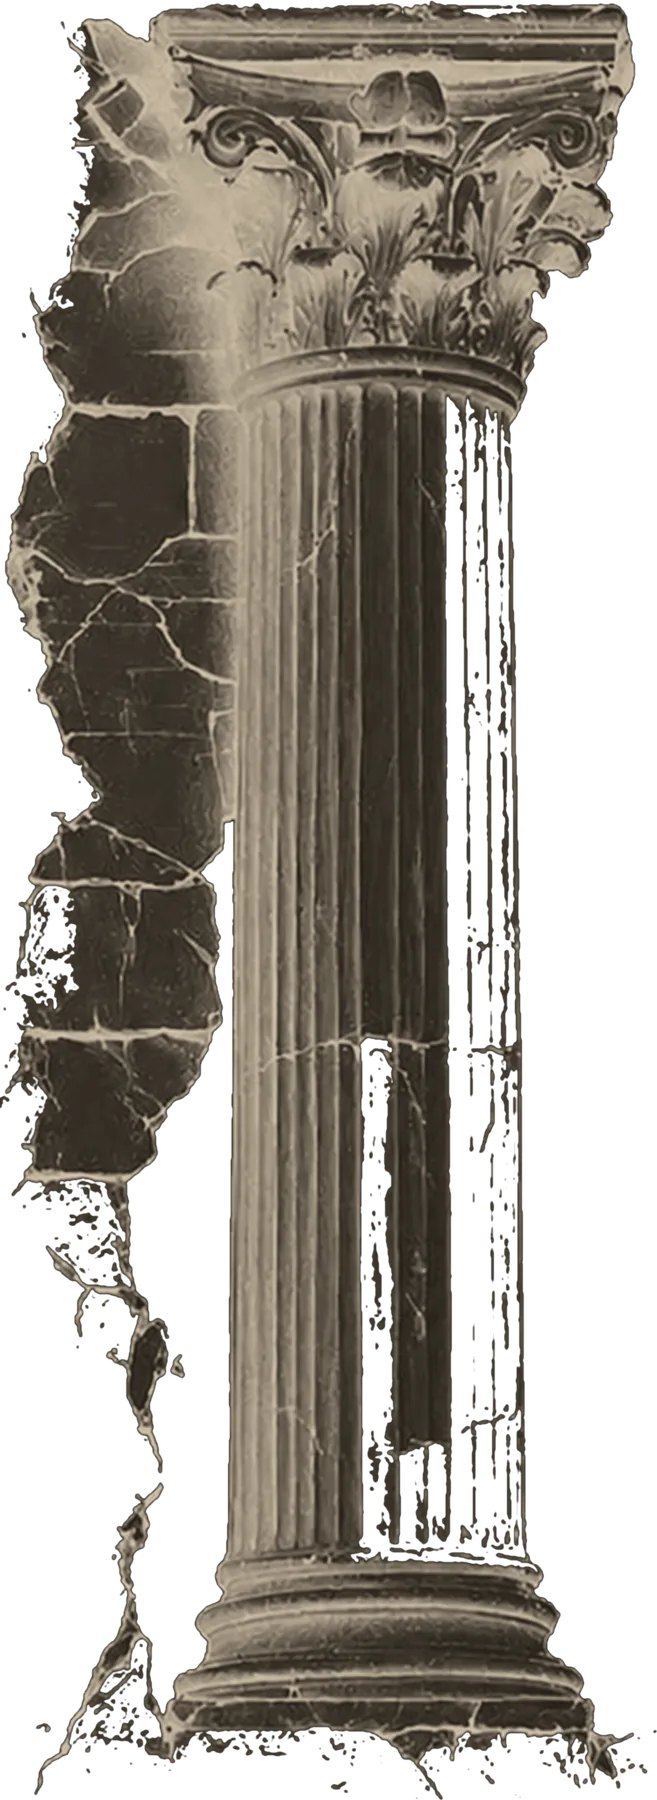
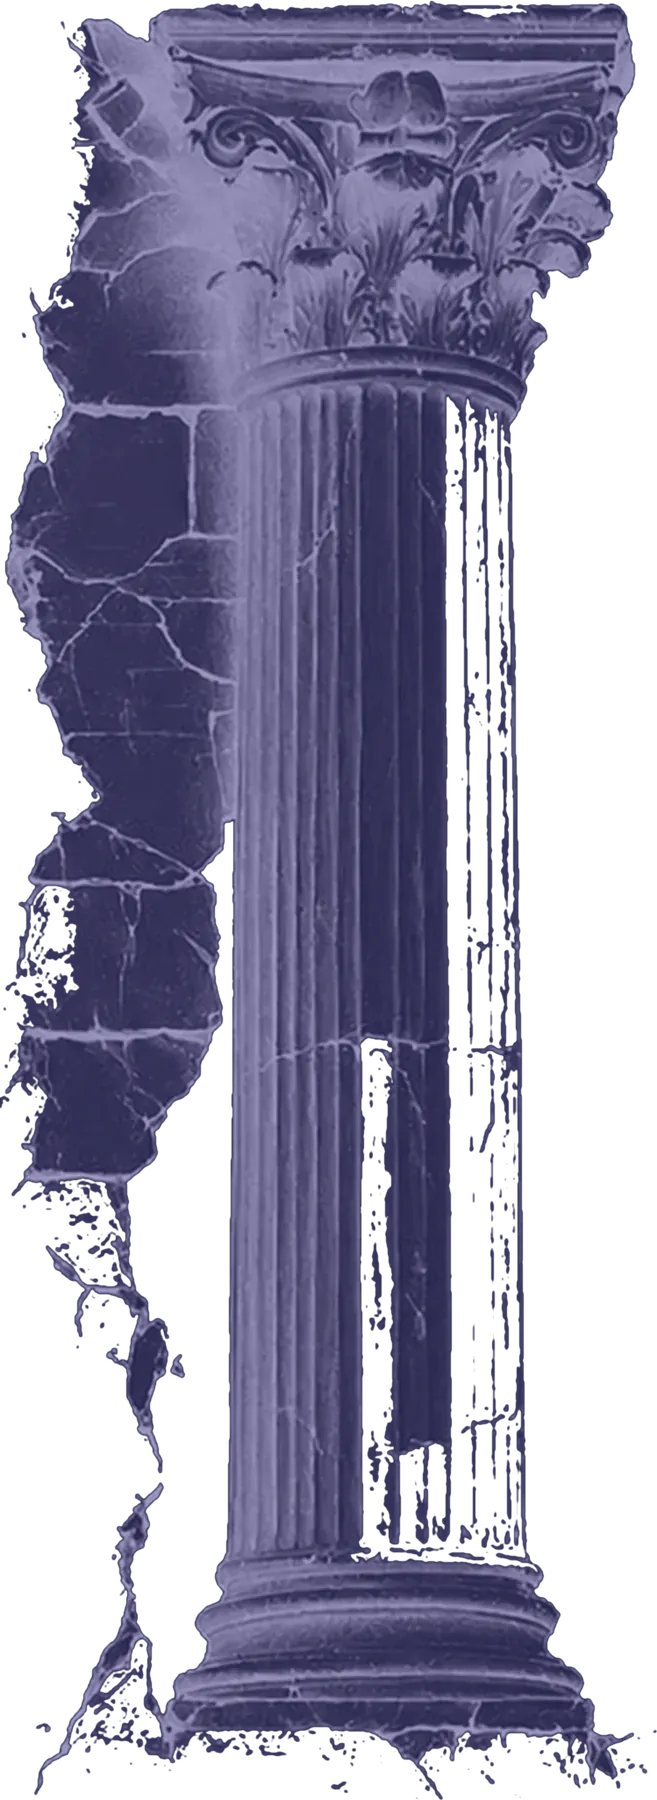
Retheme to cobalt engraving palette
Move the design system from pastel watercolor to a Toile de Jouy
engraving look: cobalt ink on warm cream paper in light mode, cream
linework on midnight indigo in dark mode. The multicolor washes become
a faint cobalt plate impression, radii tighten toward the flat printed
look, and the ruin pillars are re-rendered as cobalt duotones. Also
re-assert the --global-* token mappings inside the dark block, since
al-folio's own dark theme block hard-codes those values and was
overriding the palette for links and accents in dark mode.

Claude-Session: https://claude.ai/code/session_01HvBA374VCTFiBKqn1oUDUY

diff --git a/_sass/_watercolor.scss b/_sass/_watercolor.scss
@@ -67,25 +67,25 @@
 
 :root {
   /* surfaces */
-  --wc-bg: #f7f3ea;
-  --wc-surface: #fffdf8;
-  --wc-surface-2: #f4ecdf;
-  --wc-text: #2b2722;
-  --wc-heading: #221d18;
-  --wc-muted: #6b6055;
-  --wc-border: #ece2d2;
-  --wc-border-light: #ddd0bb;
+  --wc-bg: #f4eee1;
+  --wc-surface: #faf6eb;
+  --wc-surface-2: #ede5d2;
+  --wc-text: #2c2950;
+  --wc-heading: #232058;
+  --wc-muted: #6c6890;
+  --wc-border: #e0d7c2;
+  --wc-border-light: #d0c5ab;
 
   /* accents — ink tones tuned to WCAG AA on cream/ivory */
-  --wc-accent: #5b7fc0;
-  --wc-accent-ink: #3f5e96;
-  --wc-good: #466a40;
-  --wc-bad: #a94e44;
-  --wc-warn: #8c5f18;
+  --wc-accent: #4a44a8;
+  --wc-accent-ink: #322d8c;
+  --wc-good: #3f5e46;
+  --wc-bad: #9c4a4a;
+  --wc-warn: #85601f;
 
   /* tint recipe (badges, focus rings, block backgrounds) */
-  --wc-accent-bg: rgba(91, 127, 192, 0.1);
-  --wc-accent-bd: rgba(91, 127, 192, 0.28);
+  --wc-accent-bg: rgba(74, 68, 168, 0.08);
+  --wc-accent-bd: rgba(74, 68, 168, 0.26);
   --wc-good-bg: rgba(78, 122, 72, 0.1);
   --wc-good-bd: rgba(78, 122, 72, 0.28);
   --wc-bad-bg: rgba(184, 92, 82, 0.1);
@@ -93,23 +93,25 @@
   --wc-warn-bg: rgba(176, 125, 46, 0.12);
   --wc-warn-bd: rgba(176, 125, 46, 0.3);
 
-  --wc-radius-sm: 8px;
-  --wc-radius-btn: 999px;
-  --wc-radius-card: 20px;
+  --wc-radius-sm: 4px;
+  --wc-radius-btn: 6px;
+  --wc-radius-card: 10px;
 
-  --wc-shadow-soft: 0 1px 2px rgba(70, 50, 30, 0.04), 0 6px 20px rgba(70, 50, 30, 0.06);
-  --wc-shadow-float: 0 2px 6px rgba(70, 50, 30, 0.06), 0 16px 40px rgba(70, 50, 30, 0.08);
+  --wc-shadow-soft: 0 1px 2px rgba(35, 32, 88, 0.05), 0 6px 20px rgba(35, 32, 88, 0.07);
+  --wc-shadow-float: 0 2px 6px rgba(35, 32, 88, 0.07), 0 16px 40px rgba(35, 32, 88, 0.1);
 
   --wc-font-display: "Fraunces Variable", Georgia, "Times New Roman", serif;
   --wc-font-body: "Inter Variable", -apple-system, BlinkMacSystemFont, "Segoe UI", Roboto, sans-serif;
   --wc-font-mono: "IBM Plex Mono", "SF Mono", "Fira Code", ui-monospace, monospace;
 
-  /* the pastel wash, one blob per corner plus a soft center bloom */
-  --wc-wash-1: radial-gradient(42% 36% at 14% 10%, rgba(244, 180, 170, 0.55), transparent 70%);
-  --wc-wash-2: radial-gradient(34% 30% at 86% 6%, rgba(247, 214, 150, 0.5), transparent 70%);
-  --wc-wash-3: radial-gradient(46% 42% at 92% 78%, rgba(168, 196, 180, 0.5), transparent 70%);
-  --wc-wash-4: radial-gradient(42% 40% at 6% 90%, rgba(186, 170, 214, 0.52), transparent 70%);
-  --wc-wash-5: radial-gradient(30% 28% at 52% 48%, rgba(156, 193, 216, 0.32), transparent 70%);
+  /* the plate impression: a whisper of cobalt pooling at the corners of the
+     sheet, in place of the old multicolor watercolor blobs. The flat cream
+     stays dominant so the engraved linework carries the page. */
+  --wc-wash-1: radial-gradient(46% 40% at 8% 6%, rgba(47, 42, 140, 0.05), transparent 70%);
+  --wc-wash-2: radial-gradient(40% 34% at 94% 4%, rgba(47, 42, 140, 0.045), transparent 70%);
+  --wc-wash-3: radial-gradient(46% 42% at 94% 94%, rgba(47, 42, 140, 0.05), transparent 70%);
+  --wc-wash-4: radial-gradient(44% 40% at 4% 94%, rgba(47, 42, 140, 0.045), transparent 70%);
+  --wc-wash-5: radial-gradient(60% 50% at 50% 50%, rgba(250, 246, 235, 0.5), transparent 75%);
 
   /* feed the theme: al-folio components read these */
   --global-bg-color: var(--wc-bg);
@@ -126,7 +128,7 @@
   --global-divider-color: var(--wc-border);
   --global-card-bg-color: var(--wc-surface);
   --global-highlight-color: var(--wc-bad);
-  --global-back-to-top-bg-color: rgba(34, 29, 24, 0.55);
+  --global-back-to-top-bg-color: rgba(35, 32, 88, 0.6);
   --global-back-to-top-text-color: var(--wc-surface);
   --global-newsletter-bg-color: var(--wc-surface);
   --global-newsletter-text-color: var(--wc-text);
@@ -150,17 +152,17 @@
  * ------------------------------------------------------------------------ */
 
 html[data-theme="dark"] {
-  --wc-bg: #1c1813;
-  --wc-surface: #262019;
-  --wc-surface-2: #2f2820;
-  --wc-text: #ece4d6;
-  --wc-heading: #fbf5ea;
-  --wc-muted: #a99e8d;
-  --wc-border: #3a3128;
-  --wc-border-light: #4a3f33;
+  --wc-bg: #16143a;
+  --wc-surface: #1e1b4a;
+  --wc-surface-2: #262260;
+  --wc-text: #e8e2d0;
+  --wc-heading: #f6f0de;
+  --wc-muted: #a7a2c8;
+  --wc-border: #2f2b6a;
+  --wc-border-light: #3c3784;
 
-  --wc-accent: #9db4e0;
-  --wc-accent-ink: #c3d2f0;
+  --wc-accent: #a9a3e8;
+  --wc-accent-ink: #cac5f4;
   --wc-good: #8fbe84;
   --wc-bad: #e09a90;
   --wc-warn: #e0b878;
@@ -179,6 +181,40 @@ html[data-theme="dark"] {
 
   --global-back-to-top-bg-color: rgba(251, 245, 234, 0.4);
   --global-back-to-top-text-color: var(--wc-bg);
+
+  /* re-assert the token mappings: al-folio's own html[data-theme="dark"]
+     block (in _themes.scss) hard-codes these globals, and :root loses to it
+     on specificity once the dark attribute is set. This file loads last, so
+     stating them again here keeps every component on the --wc-* palette. */
+  --global-bg-color: var(--wc-bg);
+  --global-code-bg-color: var(--wc-surface-2);
+  --global-text-color: var(--wc-text);
+  --global-text-color-light: var(--wc-muted);
+  --global-theme-color: var(--wc-accent-ink);
+  --global-hover-color: var(--wc-accent-ink);
+  --global-hover-text-color: var(--wc-surface);
+  --global-footer-bg-color: var(--wc-surface-2);
+  --global-footer-text-color: var(--wc-muted);
+  --global-footer-link-color: var(--wc-heading);
+  --global-distill-app-color: var(--wc-muted);
+  --global-divider-color: var(--wc-border);
+  --global-card-bg-color: var(--wc-surface);
+  --global-highlight-color: var(--wc-bad);
+  --global-newsletter-bg-color: var(--wc-surface);
+  --global-newsletter-text-color: var(--wc-text);
+
+  --global-tip-block: var(--wc-good);
+  --global-tip-block-bg: var(--wc-good-bg);
+  --global-tip-block-text: var(--wc-good);
+  --global-tip-block-title: var(--wc-good);
+  --global-warning-block: var(--wc-warn);
+  --global-warning-block-bg: var(--wc-warn-bg);
+  --global-warning-block-text: var(--wc-warn);
+  --global-warning-block-title: var(--wc-warn);
+  --global-danger-block: var(--wc-bad);
+  --global-danger-block-bg: var(--wc-bad-bg);
+  --global-danger-block-text: var(--wc-bad);
+  --global-danger-block-title: var(--wc-bad);
 }
 
 /* ---------------------------------------------------------------------------
